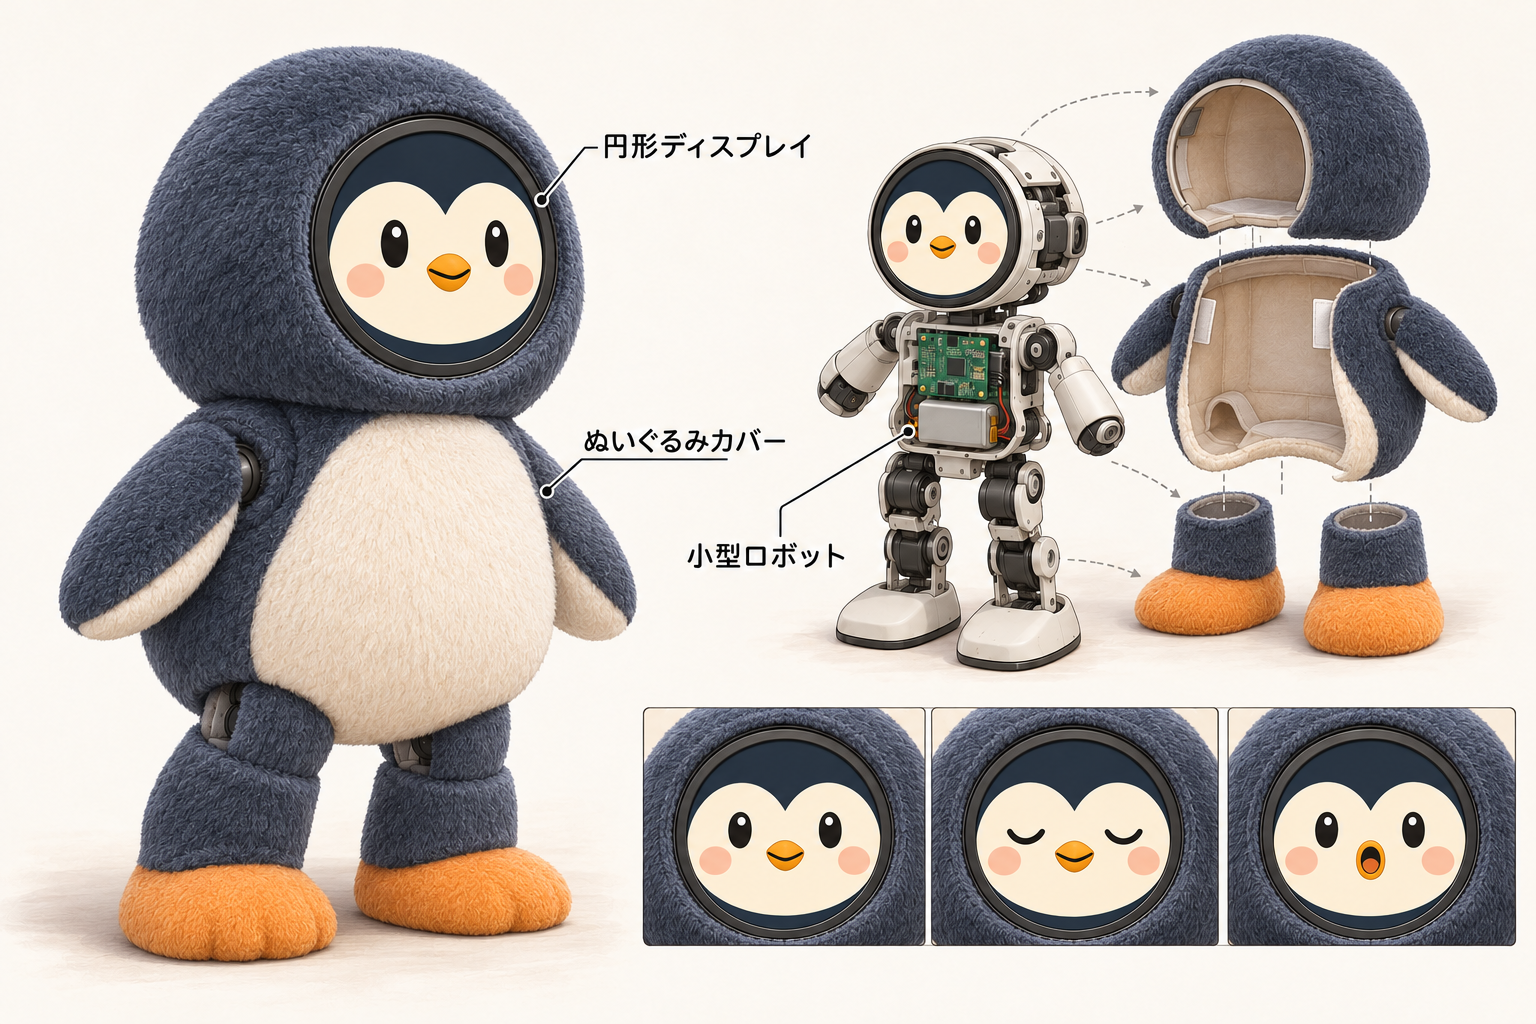
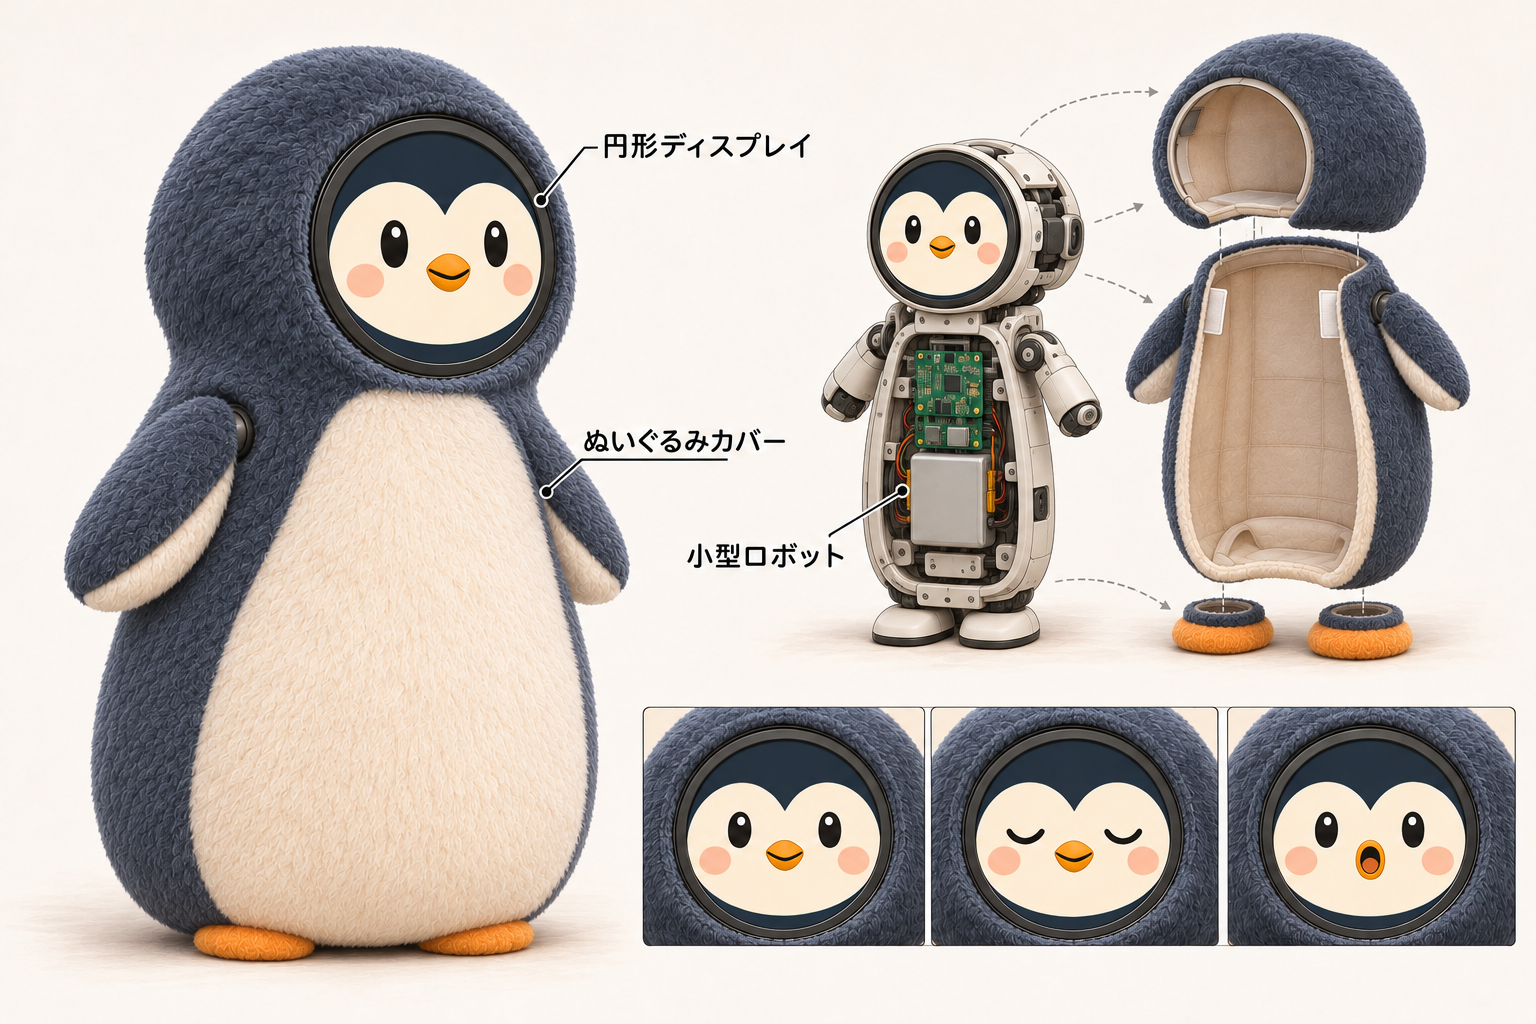
Give the penguin concept a longer torso and tiny legs

diff --git a/README.md b/README.md
@@ -6,9 +6,9 @@
 `npm run compose`で現在選んでいる部品と版を表示します。
 
 
-丸い顔で表情を伝える、ペンギンのぬいぐるみロボットを作るプロジェクトです。円形ディスプレイに白い顔模様とオレンジのくちばしを描き、小型ロボットの本体にぬいぐるみのカバーをかぶせます。将来は手足を動かし、脚で歩けるようにしていく構想です。
+丸い顔で表情を伝える、胴が長く脚が短いペンギンのぬいぐるみロボットを作るプロジェクトです。円形ディスプレイに白い顔模様とオレンジのくちばしを描き、小型ロボットの本体にぬいぐるみのカバーをかぶせます。将来は手足を動かし、脚で歩けるようにしていく構想です。
 
-![ペンギンのぬいぐるみロボットの完成イメージ。濃紺のカバー、白い顔模様とオレンジのくちばしを持つ円形ディスプレイ。右側に内部の小型ロボットと取り外したカバー、下側に表情の例を示す。](docs/images/garmyfriend-concept.png)
+![胴長短足のペンギンのぬいぐるみロボットの完成イメージ。長い卵形の胴と、お腹の下から少しのぞくオレンジの足。濃紺のカバー、白い顔模様とくちばしを持つ円形ディスプレイ。右側に内部の小型ロボットと取り外したカバー、下側に表情の例を示す。](docs/images/garmyfriend-concept.png)
 
 *目指す姿のコンセプト画像です。身体には既存のGarServoPetの4脚機構を使い、歩行と姿勢を調整します。*
 
